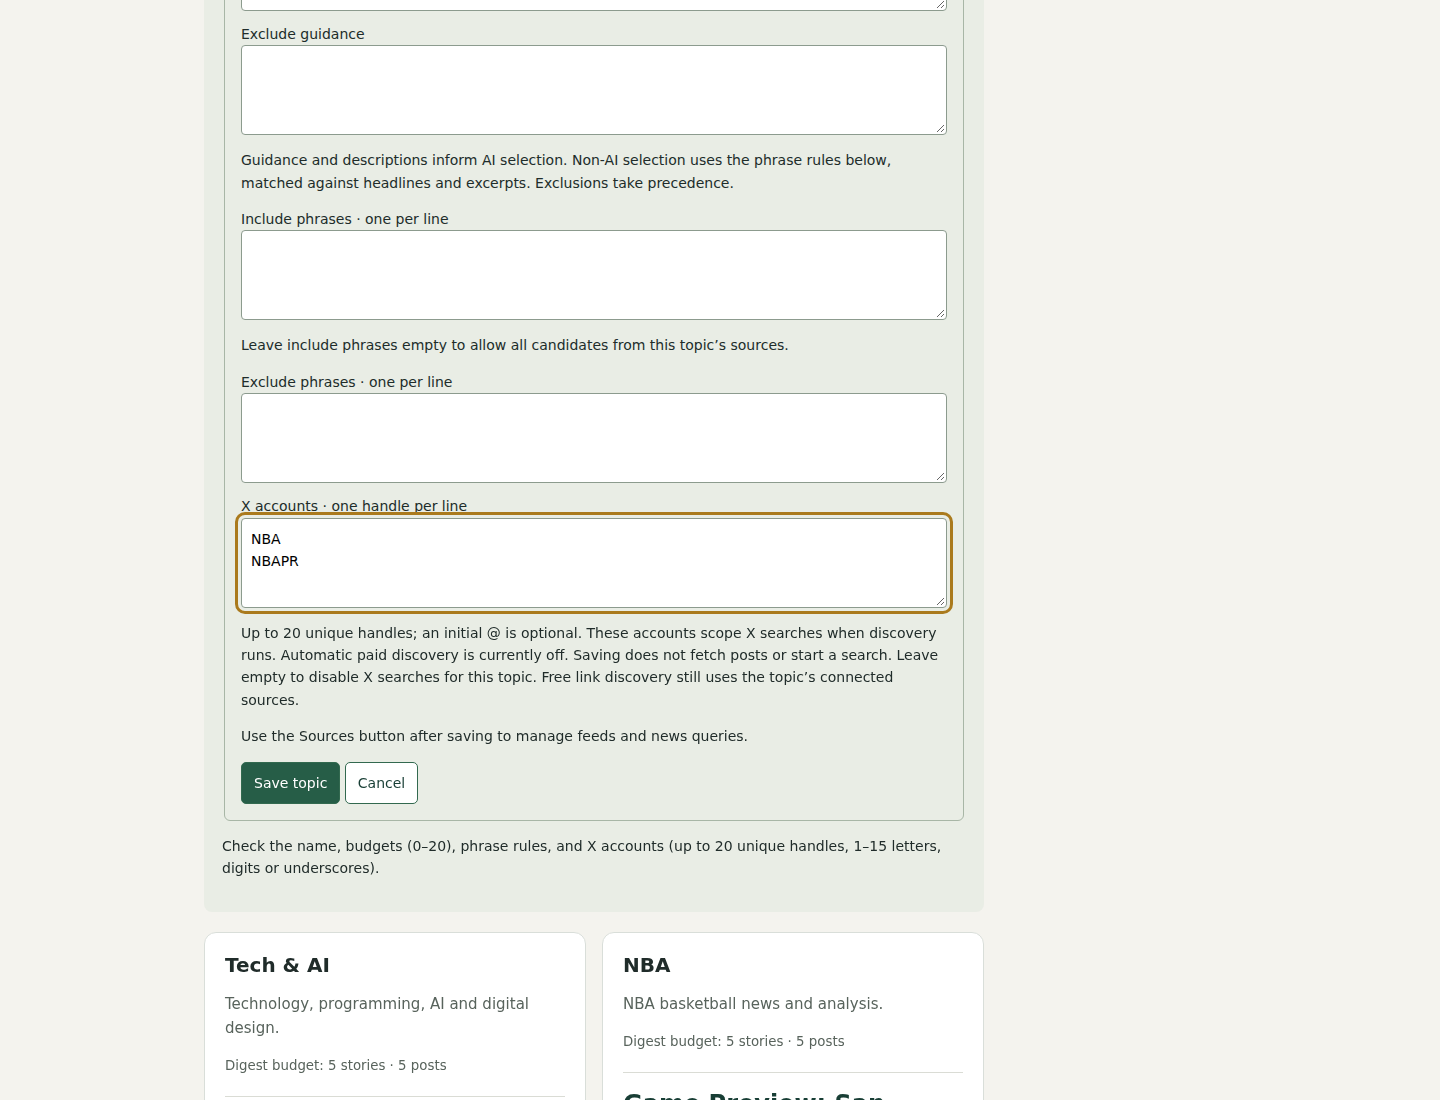
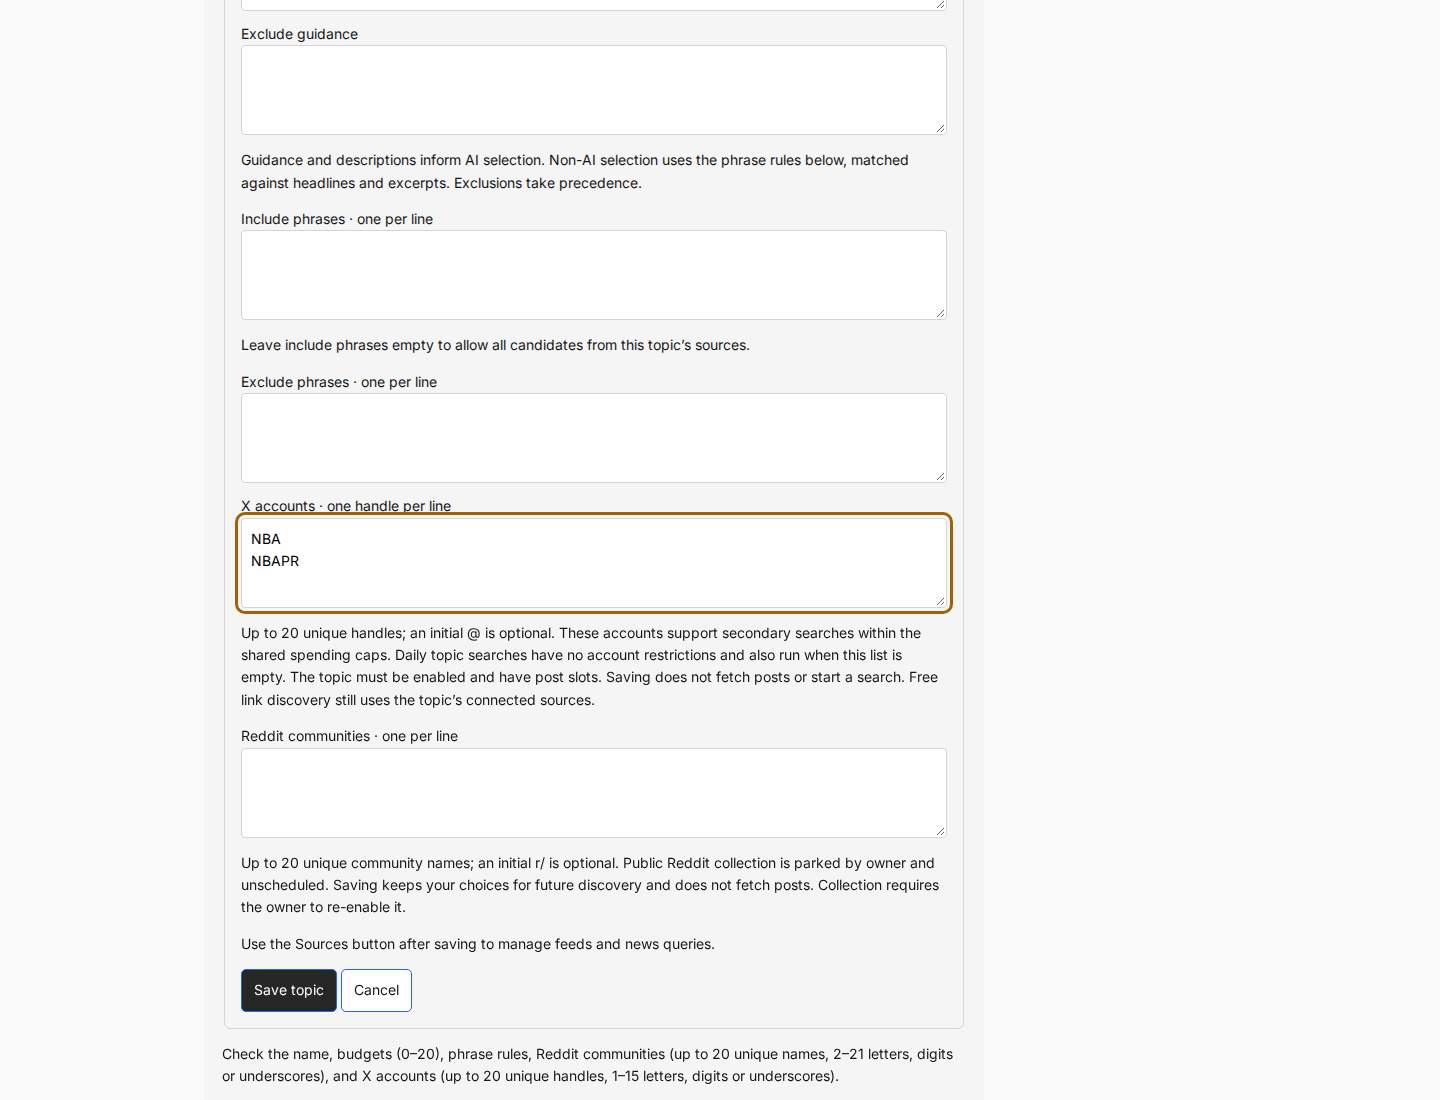
Verify X account editing without production writes

diff --git a/scripts/smoke-topic-accounts.ts b/scripts/smoke-topic-accounts.ts
@@ -1,15 +1,22 @@
-// Explicit local browser check. Uses a temporary disabled topic; no inference/search.
+// Explicit browser replay; protected live reads, no writes or inference/search.
 import assert from 'node:assert/strict';
 
-import { topicSchema } from '@digest/contracts';
+import { topicSchema, topicUpdateSchema } from '@digest/contracts';
 import { chromium } from 'playwright';
+
+import { localAdminJson } from './lib/local-admin-fetch';
 
 const base = 'http://localhost:8000';
 async function main() {
   const browser = await chromium.launch();
   const context = await browser.newContext();
-  const api = context.request;
-  let id: string | undefined;
+  const original = topicSchema
+    .array()
+    .parse(await localAdminJson('/api/admin/topics'));
+  const latest = (await localAdminJson(
+    '/api/admin/digest-previews/latest',
+  )) as { id: string } | null;
+  const id = '00000000-0000-4000-8000-999999999998';
   const input = {
     name: 'X account settings check',
     description: '',
@@ -21,18 +28,50 @@ async function main() {
     relevancePolicy: { includeAny: [], excludeAny: [] },
     accounts: ['NBA'],
   };
-  const latest = await (
-    await api.get(`${base}/api/digest-previews/latest`)
-  ).json();
+  const replayTopics = structuredClone(original);
+  const initial = topicSchema.parse({
+    ...input,
+    id,
+    profileId: original[0].profileId,
+    position: original.length,
+    sources: [],
+    queries: [],
+  });
+  replayTopics.push(structuredClone(initial));
+  let saves = 0;
+  await context.route('**/api/**', async (route) => {
+    const request = route.request();
+    const path = new URL(request.url()).pathname;
+    if (path === '/api/topics' && request.method() === 'GET') {
+      await route.fulfill({ json: replayTopics });
+      return;
+    }
+    if (path === `/api/topics/${id}` && request.method() === 'PUT') {
+      const parsed = topicUpdateSchema.safeParse(request.postDataJSON());
+      assert.equal(
+        parsed.success,
+        true,
+        'Browser must reject duplicate handles before sending',
+      );
+      if (!parsed.success) throw new Error('Invalid browser update');
+      const saved = topicSchema.parse({ ...initial, ...parsed.data });
+      replayTopics[original.length] = saved;
+      saves++;
+      await route.fulfill({ json: saved });
+      return;
+    }
+    assert.equal(request.method(), 'GET', `Unexpected browser write: ${path}`);
+    await route.continue();
+  });
   try {
-    const response = await api.post(`${base}/api/topics`, { data: input });
-    assert.equal(response.status(), 201);
-    id = topicSchema.parse(await response.json()).id;
     for (const [name, width, height] of [
       ['desktop', 1440, 1100],
       ['mobile', 390, 844],
     ] as const) {
-      const page = await browser.newPage({ viewport: { width, height } });
+      replayTopics[original.length] = structuredClone(initial);
+      const page = await context.newPage();
+      await page.setViewportSize({ width, height });
+      const previousSaves = saves;
       const errors: string[] = [];
       page.on('pageerror', (error) => errors.push(error.message));
       await page.goto(base);
@@ -75,13 +114,15 @@ async function main() {
         .getByRole('status')
         .filter({ hasText: 'up to 20 unique handles' })
         .waitFor();
-      assert.deepEqual(
-        topicSchema
-          .array()
-          .parse(await (await api.get(`${base}/api/topics`)).json())
-          .find((t) => t.id === id)?.accounts,
-        ['NBA', 'NBAPR'],
+      assert.equal(
+        saves,
+        previousSaves + 1,
+        'Duplicate handles must not send another save',
       );
+      assert.deepEqual(replayTopics[original.length].accounts, [
+        'NBA',
+        'NBAPR',
+      ]);
       await handles.fill('NBA\nNBAPR');
       await handles.scrollIntoViewIfNeeded();
       await page.screenshot({
@@ -96,24 +137,16 @@ async function main() {
       assert.deepEqual(errors, []);
       await page.close();
     }
-    assert.equal(
-      (
-        await api.put(`${base}/api/topics/${id}`, {
-          data: { ...input, accounts: ['NBA', 'nba'] },
-        })
-      ).status(),
-      400,
-    );
-    assert.deepEqual(
-      await (await api.get(`${base}/api/digest-previews/latest`)).json(),
-      latest,
-    );
     console.log(
-      'X account settings: desktop/mobile save, reload, @ normalization, duplicate rejection and immutable latest edition pass; no inference/search',
+      'X account settings: desktop/mobile browser-only save/reload, @ normalization and duplicate prevention pass; protected reads prove live topics/edition unchanged; no inference/search',
     );
   } finally {
-    if (id)
-      assert.equal((await api.delete(`${base}/api/topics/${id}`)).ok(), true);
+    assert.deepEqual(await localAdminJson('/api/admin/topics'), original);
+    if (latest)
+      assert.deepEqual(
+        await localAdminJson('/api/admin/digest-previews/' + latest.id),
+        latest,
+      );
     await context.close();
     await browser.close();
   }

diff --git a/TASKS.md b/TASKS.md
@@ -26,7 +26,7 @@ STEERING overrides older milestone notes; implementation history is in PROGRESS.
   - Nov 4: one Tech Bluesky pick (767 likes/329 replies/342 reposts), duplicates X. Existing-pick context, same-moment/engagement guidance, fallback semantic gates and exact identity/coverage checks shipped (652–661). Broader quality and duplicate reduction await scheduled evidence.
 - [ ] STEERING 33: after X search/schedule/backups and Nov 5 checks, rebuild reader/admin UI exactly per [approved UI spec](docs/ui-spec.md), five shippable steps in order; ahead of item 28 fallback work. SPA, TanStack Router/Query, Tailwind v4/shadcn, self-hosted Inter; server-side admin gate and desktop/mobile light/dark route screenshots.
   - Foundations complete (717–728): TanStack routing/query resources, validated edition/history navigation, Tailwind v4/shadcn, self-hosted Inter and saved light/dark theme. Screenshots in `docs/screenshots/ui/`.
-  - Step 2 started (729): deny-by-default identity middleware, `/api/me`, reserved `/admin` and `/api/admin` protection; no loopback-only trust. Reader latest/by-ID allowlist endpoints prepared (730), excluding operational metadata; reader archive pagination prepared (731) and browser history migrated (732), with stale initial-history cancellation on job completion; browser edition detail migrated to sanitized reader contracts and content-only story/post rendering (733). Protected admin responses are uncached and vary on identity (735). Protected admin API aliases prepared (734) for topics/profile/status/content/digest previews, with isolated gate and write checks; legacy routes remain. Local operations sources/jobs and timing/Bluesky coverage reports, Bluesky probe and Grafana status comparisons now use token-authenticated protected reads (736–739); schedule recovery uses protected profile reads/restoration (740); saved-post browser verification uses the reader API and checks post identity/text (741); topic create/delete/reorder replays use protected baseline/immutability reads without browser credentials (742); schedule and topic availability replay baselines/immutability checks protected (743); status rendering verifier uses protected telemetry snapshots without browser credentials (744); AI-spend/topic-coverage checks use protected snapshots (745); reserve and run-duration checks use protected snapshots (746); reviewed X-account and parked-community checks use protected topic snapshots/immutability reads (747); shared-query cache/error browser check uses protected snapshots (748); source-connection check uses protected snapshots with browser-only saves and blocks unexpected writes (749); custom-feed check uses protected snapshots and browser-only saves without live publisher changes (750); private local token installed, owner email still unconfigured. Admin migration remains open. Next: configure admin identity, switch UI/scripts and remove legacy routes while gating tools together. Proxy origin/spoof checks remain pending; see [access decision](docs/decisions/2026-11-05-admin-access.md).
+  - Step 2 started (729): deny-by-default identity middleware, `/api/me`, reserved `/admin` and `/api/admin` protection; no loopback-only trust. Reader latest/by-ID allowlist endpoints prepared (730), excluding operational metadata; reader archive pagination prepared (731) and browser history migrated (732), with stale initial-history cancellation on job completion; browser edition detail migrated to sanitized reader contracts and content-only story/post rendering (733). Protected admin responses are uncached and vary on identity (735). Protected admin API aliases prepared (734) for topics/profile/status/content/digest previews, with isolated gate and write checks; legacy routes remain. Local operations sources/jobs and timing/Bluesky coverage reports, Bluesky probe and Grafana status comparisons now use token-authenticated protected reads (736–739); schedule recovery uses protected profile reads/restoration (740); saved-post browser verification uses the reader API and checks post identity/text (741); topic create/delete/reorder replays use protected baseline/immutability reads without browser credentials (742); schedule and topic availability replay baselines/immutability checks protected (743); status rendering verifier uses protected telemetry snapshots without browser credentials (744); AI-spend/topic-coverage checks use protected snapshots (745); reserve and run-duration checks use protected snapshots (746); reviewed X-account and parked-community checks use protected topic snapshots/immutability reads (747); shared-query cache/error browser check uses protected snapshots (748); source-connection check uses protected snapshots with browser-only saves and blocks unexpected writes (749); custom-feed check uses protected snapshots and browser-only saves without live publisher changes (750); X-account editing check uses protected snapshots and browser-only saves/duplicate prevention without live topic creation (751); private local token installed, owner email still unconfigured. Admin migration remains open. Next: configure admin identity, switch UI/scripts and remove legacy routes while gating tools together. Proxy origin/spoof checks remain pending; see [access decision](docs/decisions/2026-11-05-admin-access.md).
 
 - [ ] STEERING 28 / speed: incremental triage stays OFF. Default-off runtime, shared admission, reserve-safe scoring, exact pools, cutoff checks and sibling draining verified. Replays measure threshold/rotation skips and reusable/wasted versions; real waste/latency unmeasured.
   - Activation assessment (655): no qualifying full-AI editions; Nov 5 reserve uses full projected daily cap ($0.495028 without more spend), leaving $0 background allowance. [Assessment](docs/edition-reviews/2026-11-04-incremental-admission.md). Reassess after full-AI acceptance without reducing protection.

diff --git a/PROGRESS.md b/PROGRESS.md
@@ -1,13 +1,3 @@
-## 2026-11-05: iteration 737 — authenticated scheduled-evidence reports
-
-- Started clean on main; no leftover work. Health/database/Redis, 36 sources healthy, zero failed retained digest runs; Nov 5 edition due at 15:00 UTC. Initial alerts zero.
-- Edition timing report now reads protected status and digest previews; Bluesky coverage reads protected topics. Both reuse the private local token adapter, fixed loopback origin and redirect refusal; no legacy fallback.
-- Live read-only timing report returned complete evidence for the latest scheduled edition. Stored Bluesky observations: Tech 517, NBA 682, Gaming 687, World 666; these are stored observations, not new collection or selected picks.
-- Verification: pnpm format, pnpm lint:fix, pnpm check (496 unit/214 isolated integration, exit 0), pnpm build, check-handbook.ts 08-operations and git diff --check passed. No UI/schema/worker changes or screenshots needed.
-- Rebuilt/restarted API/docs. Updated TASKS, Operations and access decision; archived iteration 723. SOURCES/NEEDS_FROM_HUMAN unchanged: no source change or new blocker.
-- Final health and reader latest (four topics) passed; alerts zero. Initial push rejected because owner commit 3df3d23 arrived; fetched and merged without rewriting history. Owner-only STEERING/spec changes require no rebuild.
-- No paid calls or model/provider/budget changes. Next FIRST: new STEERING 35, restore saved excerpt as reader summary, verify Nov 4 NBA and desktop/mobile screenshots before 13:00 UTC; Nov 5 NBA outcome first if fallback recurs. Then scheduled acceptance/scorer/timed X work.
-
 ## 2026-11-05: iteration 738 — restore saved reader story text
 
 - Started clean on main; no leftover work. Health/database/Redis and current sources green; alerts zero, no retained failed digest runs. Nov 5 scheduled edition still due at 15:00 UTC.
@@ -129,4 +119,13 @@
 - First publisher-only replay selection found no matching feed in Tech's incoming snapshot; fixed selection across enabled topics. A browser run during concurrent build timed out; rerun after build passed. Isolated API tests retain actual URL-validation coverage; browser error responses are replayed.
 - Verification: pnpm format; pnpm lint:fix; pnpm check (497 unit/214 isolated integration, exit 0); pnpm build; check-handbook.ts 08-operations; git diff --check all passed. Final health green; reader latest has four real topics.
 - Updated TASKS, Operations and access decision; archived iteration 736. SOURCES/NEEDS_FROM_HUMAN unchanged: no source change or new blocker. No runtime/config/schema changes, live writes, paid calls or model/provider/budget changes; healthy services remain running under STEERING 22.
+- Next FIRST: Nov 5 NBA/grouping/cost/latency review after 15:00 UTC; investigate repeated fallback. Scorer afterward; fresh X rounds after 21:00 UTC Nov 5/6. Continue coordinated admin migration while waiting.
+
+## 2026-11-05: iteration 751 — X-account editing without live topic writes
+
+- Started clean on main; no leftover work. Health/database/Redis green, 36 sources healthy, no retained failed digest runs. Existing metrics memory warning pending; Nov 5 edition remains due at 15:00 UTC.
+- X-account editing browser check now reads protected topic/edition snapshots in Node. Its disabled topic, saves and reload state stay in browser memory; unexpected writes abort, with no browser credentials or live topic creation/deletion.
+- `pnpm exec tsx scripts/smoke-topic-accounts.ts` passed desktop/mobile save/reload, @ normalization, duplicate prevention, no errors/overflow and final live topic/edition immutability. Two screenshots refreshed; mobile visually inspected. Server account validation stays in isolated settings tests.
+- Verification: pnpm format; pnpm lint:fix; pnpm check (497 unit/214 isolated integration); pnpm build; check-handbook.ts 08-operations; git diff --check. Initial check found formatting in the newly archived progress entry; corrected before rerunning.
+- Updated TASKS, Operations and access decision; archived iteration 737. SOURCES/NEEDS_FROM_HUMAN unchanged: no source changes or new blocker. No runtime/config/schema changes, live writes, paid calls or model/provider/budget changes; healthy services remain running under STEERING 22. Final health green; reader latest has four real topics.
 - Next FIRST: Nov 5 NBA/grouping/cost/latency review after 15:00 UTC; investigate repeated fallback. Scorer afterward; fresh X rounds after 21:00 UTC Nov 5/6. Continue coordinated admin migration while waiting.

diff --git a/docs/progress-archive/2026-11-05-iteration-737.md b/docs/progress-archive/2026-11-05-iteration-737.md
@@ -1,0 +1,9 @@
+## 2026-11-05: iteration 737 — authenticated scheduled-evidence reports
+
+- Started clean on main; no leftover work. Health/database/Redis, 36 sources healthy, zero failed retained digest runs; Nov 5 edition due at 15:00 UTC. Initial alerts zero.
+- Edition timing report now reads protected status and digest previews; Bluesky coverage reads protected topics. Both reuse the private local token adapter, fixed loopback origin and redirect refusal; no legacy fallback.
+- Live read-only timing report returned complete evidence for the latest scheduled edition. Stored Bluesky observations: Tech 517, NBA 682, Gaming 687, World 666; these are stored observations, not new collection or selected picks.
+- Verification: pnpm format, pnpm lint:fix, pnpm check (496 unit/214 isolated integration, exit 0), pnpm build, check-handbook.ts 08-operations and git diff --check passed. No UI/schema/worker changes or screenshots needed.
+- Rebuilt/restarted API/docs. Updated TASKS, Operations and access decision; archived iteration 723. SOURCES/NEEDS_FROM_HUMAN unchanged: no source change or new blocker.
+- Final health and reader latest (four topics) passed; alerts zero. Initial push rejected because owner commit 3df3d23 arrived; fetched and merged without rewriting history. Owner-only STEERING/spec changes require no rebuild.
+- No paid calls or model/provider/budget changes. Next FIRST: new STEERING 35, restore saved excerpt as reader summary, verify Nov 4 NBA and desktop/mobile screenshots before 13:00 UTC; Nov 5 NBA outcome first if fallback recurs. Then scheduled acceptance/scorer/timed X work.

diff --git a/docs/handbook/01-app/08-operations.md b/docs/handbook/01-app/08-operations.md
@@ -5,7 +5,7 @@
 All of these are behind the exe.dev login. Reserved `/admin` and `/api/admin`
 paths require [admin identity](01-stack-and-runtime.md#admin-identity); `/api/me` reports access.
 `pnpm obs sources|jobs` reads its local token from the env file for `/api/admin/status`.
-Schedule recovery and schedule/topic/status, AI-spend, coverage, reserve, duration, shared-query, custom-feed/source-connection and account/community settings smoke scripts use protected API reads; browser writes and status snapshots are replayed in memory.
+Schedule recovery and schedule/topic/status, AI-spend, coverage, reserve, duration, shared-query, custom-feed/source-connection and account editing/community settings smoke scripts use protected API reads; browser writes and status snapshots are replayed in memory.
 
 | What               | URL                                                                                      |
 | ------------------ | ---------------------------------------------------------------------------------------- |

diff --git a/docs/decisions/2026-11-05-admin-access.md b/docs/decisions/2026-11-05-admin-access.md
@@ -95,6 +95,11 @@ Validation and failure responses, retries, reload and disconnect are browser-onl
 it never creates topics, connects a live publisher or waits for collection.
 Server URL validation remains covered by isolated API tests.
 
+The X-account editing check reads protected topic/edition snapshots in Node.
+Its disabled topic and saves exist only in browser replay memory; duplicate
+handles are rejected before a request, and unexpected API writes are blocked.
+Server account validation remains covered by isolated settings tests.
+
 ## Next rollout slice
 
 Configure the owner email allowlist before moving current operational routes.
